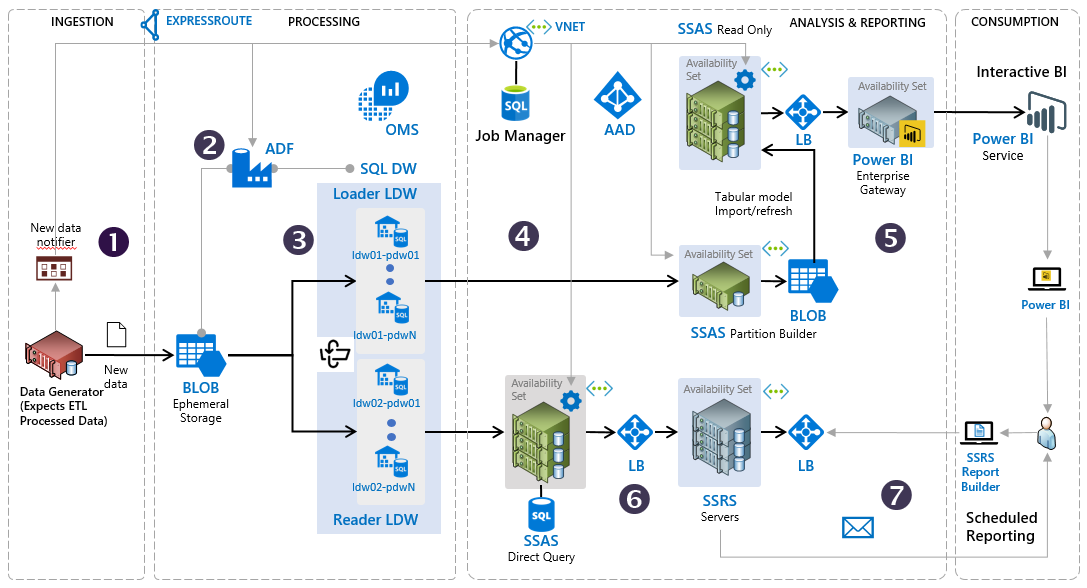
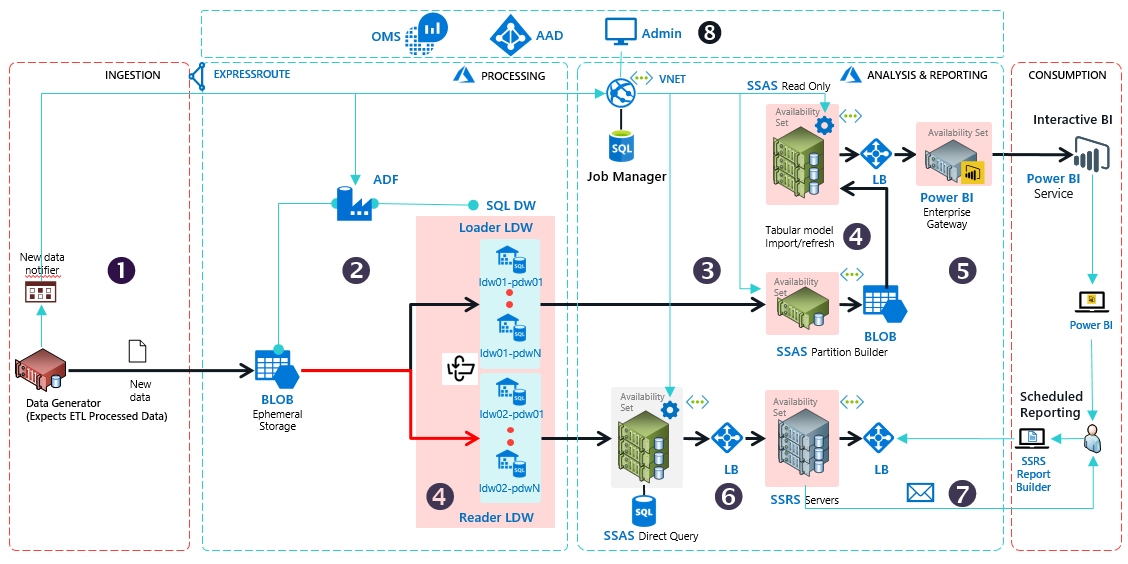
Users Guide with Table of Contents

diff --git a/README.md b/README.md
@@ -1,6 +1,12 @@
 
 # Technical Reference Implementation for Enterprise BI and Reporting
 
+## Summary
+
+This solution creates a reference implementation for an end to end BI and Reporting platform built using SQL Data Warehouse, SQL Server Analysis Services, SQL Server Reporting Services,  Power BI, and custom solutions for job managment and coordination. Customers who are planning to build such a system for their enterprise applications, or  onboarding their on-prem solution can use this TRI to get a jumpstart on the infrastructure implementation, and customize it for their needs. System Integrators can partner with us to use this reference implementation to accelrate their customer deployments.
+
+## Description
+
 Azure offers a rich data and analytics platform for customers and ISVs seeking to build scalable BI and reporting solutions. However, customers face pragmatic challenges in building the right infrastructure for enterprise-grade, production systems. They have to evaluate the various products for security, scale, performance and geo-availability requirements. They have to understand service features and their interoperability, and plan to address any perceived gaps with custom software. This takes time and effort, and many times, the end to end system architecture they design is sub-optimal. Consequently, the promise and expectations set during proof-of-concept (POC) stages do not translate to robust production systems in the expected time to market.
 
 This TRI addresses this customer pain by providing a reference implementation that is:
@@ -11,39 +17,39 @@ This TRI addresses this customer pain by providing a reference implementation th
 
 Once deployed, the TRI can be used as-is, or customized to fit the application needs using the technical documentation that is provided with the TRI. This enables the customer to build the solution that delivers the business goals based on a robust and functional infrastructure.
 
-# Audience
+## Audience
 Business decision makers and evaluators can review the content in the **Solution Overview LINK TBD** folder to understand the benefits of using the TRI. For more information on how to tailor the TRI for your needs, **connect with one of our partners LINK TBD**.
 
 It is recommended that the TRI is reviewed and deployed by a person who is familiar with operational concepts of data warehousing, business intelligence, and analytics. Knowledge of Azure is a plus, but not mandatory. The technical guides provide pointers to Azure documentation for all the resources employed in this TRI.
 
-# How to Deploy
-The TRI can be deployed from http://gallery.cortanaintelligence.com/azure-arch-enterprise-bi-and-reporting
-Before you deploy, follow the prerequisites. Then click on the Deploy button on the right pane, and provide the configuration parameters based on your requirements. The deployment will create an Azure resource group, with **these components TBD**
-
-# Architecture
+## Architecture 
 
 ![Architecture](./img/azure-arch-enterprise-bi-and-reporting.png)
 
-The TRI is designed with a key assumption that the data that is to be ingested into the system has been ETL-processed for reporting and analytics.
+
+### How the TRI works, in a Nutshell
 
 The TRI has 4 stages: Ingestion, Processing, Analysis and Reporting, and Consumption.
-1.	A data generator, provided in place of the customer's data source, queries the job manager for a staging [Azure Blob](https://docs.microsoft.com/en-us/azure/storage/) storage. The job manager returns the handle to an ephemeral BLOB, and the data generator pushes data files into this storage. [Configure the data ingestion](https://msdata.visualstudio.com/AlgorithmsAndDataScience/TRIEAD/_git/CIPatterns?_aConfiguringDataIngestion.md) module to load actual customer data.
-2.	When the job manager detects fresh data in the Azure Blob, it creates a dynamic [ADF](https://docs.microsoft.com/en-us/azure/data-factory/v1/data-factory-introduction) pipeline to load the data from the Blob into a "logical" _Loader_ SQL DW, using [Polybase](https://docs.microsoft.com/en-us/sql/relational-databases/polybase/get-started-with-polybase). The logical DW is a scale-out and redundancy architecture to allow for multiple physical DW. It also enables a Loader-Reader pair of Data Warehouses to provide the required enterprise-grade scale for concurrent read-write operations.
-operations. More details are provided in **[Configuring Logical Data Warehouse]**
-3.	After a preconfigured duration, the job manager flips the Loader DW to become the _Reader_ SQL DW, ready to serve queries for report generation. The current Reader flips to become the Loader, and the job manager starts data load on the Loader. This Loader-Reader pair 
-4.	Interactive BI is best served by cached analytical models in cubes that allow  fast drilldowns for summaries aggregated over various dimensions or pivots. This stage involves multiple steps to generate and serve these analytical models in a highly available manner.
-    - The Analytical model cache consists of a [SSAS partition builder](https://docs.microsoft.com/en-us/sql/analysis-services/multidimensional-models-olap-logical-cube-objects/partitions-analysis-services-multidimensional-data), and an [availability-set of SSAS read-only servers](https://docs.microsoft.com/en-us/sql/analysis-services/instances/high-availability-and-scalability-in-analysis-services).
-    - The job manager manages the mapping between the analytic (tabular) models stored in the cache and their source data tables in the data warehouse. As data arrives into tables in the _Loader_ SQL DW, the partition builder is instructed by the job manager to start rebuilding the tabular models by querying the relevant tables in data warehouse.
-    - When the loader flips to become the reader, this flip event triggers the partition builder to _commit_ the completed tabular models into Blob storage.
-    - When the job manager detects the availability of a tabular model, it coordinates a round robin refresh of the SSAS Read-Only nodes in the availability set, and the front end load balancer, as follows: (a) drain the existing connections to the SSAS-RO node (b) replace the tabular model in that node (c) open up the node for new interactive BI connections (d) move to the next one.
-5. Power BI dashboards connect to the tabular models in SSAS RO nodes via a Power BI gateway that you can set up in your subscription, as explained [here](https://msdata.visualstudio.com/AlgorithmsAndDataScience/TRIEAD/_git/CIPatterns?_a=preview&path=%2Fdoc%2FConfiguringPowerBI.md).
+
+TRI has 4 segments – Ingestion, Processing, Analysis & Reporting, and Consumption
+
+1.	A data generator, provided in place of the customer's data source, queries the job manager for a staging [Azure Blob](https://docs.microsoft.com/en-us/azure/storage/) storage. The job manager returns the handle to an ephemeral BLOB, and the data generator pushes data files into this storage. The TRI is designed with _a key assumption that the data that is to be ingested into the system has been ETL-processed_ for reporting and analytics.
+2.	When the job manager detects fresh data in the Azure Blob, it creates a dynamic [ADF](https://docs.microsoft.com/en-us/azure/data-factory/v1/data-factory-introduction) pipeline to load the data from the Blob into a "logical" _Loader_ SQL DW, using [Polybase](https://docs.microsoft.com/en-us/sql/relational-databases/polybase/get-started-with-polybase). The logical SQL DW is a design provided by the TRI for scalability and performance, to allow multiple physical [SQL Data Warehouse](https://docs.microsoft.com/en-us/azure/sql-data-warehouse/) replicas to handle large scale queries.
+3.	Interactive BI is best served by cached analytical models to enable fast drilldowns for summaries aggregated over various dimensions or pivots. A data lands in DW tables, a [SSAS partition builder](https://docs.microsoft.com/en-us/sql/analysis-services/multidimensional-models-olap-logical-cube-objects/partitions-analysis-services-multidimensional-data) starts refreshing the tabular models that are dependent on these tables.
+4.	After a preconfigured duration, the job manager flips the Loader DW to become the _Reader_ SQL DW, ready to serve queries for report generation. The current Reader flips to become the Loader, and the job manager starts data load on the Loader. This Loader-Reader pairing in another design provided by the TRI for scalability and performance of queries against the data warehouse. When this flip happens, the Partition Builder commits the tabular models into files in a Blob. This Blob is then loaded into 
+an [availability-set of SSAS read-only servers](https://docs.microsoft.com/en-us/sql/analysis-services/instances/high-availability-and-scalability-in-analysis-services).
+5. You can set up a Power BI gateway to the SSAS Read Only nodes, enabling Power BI dashboards to access the tabular models.
 6. For reporting, SSRS generates the report from data in the SQL DW via SSAS Direct Query. SSAS also offers row level security for the data fetched from SQL DW.
 7. You can schedule report generation with SSRS using the Report Builder client tool. The generated reports are stored in SSRS servers. You can enable email based delivery of reports to users.
+8. The end to end system can be managed via an online Admin console. The TRI is configured with [Azure Active Directory](https://docs.microsoft.com/en-us/azure/active-directory/), which you can enable RBAC (role based access control) for the users of your system, and [OMS](https://docs.microsoft.com/en-us/azure/operations-management-suite/operations-management-suite-overview), which enables you to monitor the individual components in the Azure resource group.
 
-# Technical Guides
+## User's Guide
 
-# How to Delete a Deployment
-The TRI creates the end to end system in a dedicated resource group provided by you. Login to http://portal.azure.com, and delete this resource group from your subscription.
+Please follow the step by step instructions in the [User's Guide](./UsersGuide/UsersGuide-ToC.md) to deploy and operationalize the TRI.
+
+## Technical Guides
+
+The design and operational details of the main data components of the TRI are provided in the [Technical Guide](./TechnicalGuide/TechnicalGuide-ToC.md). 
 
 # Disclaimer
 

diff --git a/User Guides/1-Prerequisite Steps Before Deployment.md b/User Guides/1-Prerequisite Steps Before Deployment.md
@@ -1,13 +1,12 @@
-# Summary
-This page summarizes prerequisites for Technical Reference Implementation for Enterprise BI and Reporting solution. 
+# Prequisites for deploying Technical Reference Implementation for Enterprise BI and Reporting
 
 # VNET
 
-Most of the resources provisioned will be placed in a pre-existing Azure VNET. Therefore, we require an Azure VNET resource and a domain controller to be deployed in the subscription where the solution will be deployed. Customers who already have a functioning Azure VNET and domain controller can skip this section. For customers new to Azure, the guide below will show how to easily deploy prerequisites in their subscription.
+Most of the resources provisioned will be placed in a pre-existing Azure VNET in the subscription that you will be specifying for the TRI to be deployed. Customers who already have a functioning Azure VNET and domain controller can skip this section. If not, an Azure VNET resource and a domain controller must be deployed in the subscription, following the steps provided in this guide.
 
-## Provisioning Azure VNet resource
+## Provisioning Azure VNet resource and creating root and client certificates
 
-First, we will create new Azure VNET and VPN Gateway resources. Navigate to the <source root>\scripts directory and run the command below. Note that it might take up to 45 minutes to complete.
+First, create a new Azure VNET and VPN Gateway resource. Navigate to the <source root>\scripts directory and run the command below, after the parameter values to ones that apply to your environment. Note that it might take up to 45 minutes to complete.
 
 ```PowerShell
 Login-AzureRmAccount
@@ -15,9 +14,13 @@ Login-AzureRmAccount
 .\DeployVPN.ps1 -SubscriptionName "My Subscription" -ResourceGroupName "ContosoVNetGroup" -Location "eastus" -VNetName "ContosoVNet" -VNetGatewayName "ContosoGateway" -AddressPrefix "10.254.0.0/16" -GatewaySubnetPrefix "10.254.1.0/24" -OnpremiseVPNClientSubnetPrefix "192.168.200.0/24" -RootCertificateName "ContosoRootCertificate" -ChildCertificateName "ContosoChildCertificate"
 ```
 
-In addition to provisioning Azure VNET and VPN Gateway resources, the script above will also create a self-signed root certificate and a client certificate for the VPN gateway. The root certificate is used for generating and signing client certificates on the client side, and for validating those client certificates on the VPN gateway side.
+The above script will provision the Azure VNET and VPN Gateway resources. In addition, it will create a self-signed root certificate (identified by ```ContosoRootCertificate``` in the above example), and a client certificate for the VPN gateway (identified by ```ContosoChildCertificate```). The root certificate is used for generating and signing client certificates on the client side, and for validating those client certificates on the VPN gateway side.
 
-To enable people in your organization to connect to the newly provisioned VNET via the VPN gateway, you will need to export the two certificates. You can use the commands below to generate the PFX files. The two files can then be shared and installed on the machines of users who need VPN access.
+## Export the certificates
+
+To enable users in your organization to connect to the newly provisioned VNET via the VPN gateway, you will need to export the two certificates to generate PFX files that they can import to their devices.
+
+From the same PowerShell console that you used above, run the commands shown below to generate the PFX files in the same directory (```ContosoRootCertificate.pfx``` and ```ContosoChildCertificate.pfx``` in the example)
 
 ```PowerShell
 $rootCert = Get-ChildItem -Path cert:\CurrentUser\My | ?{ $_.Subject -eq "CN=ContosoRootCertificate" }
@@ -29,10 +32,13 @@ $securePassword = ConvertTo-SecureString -String "MyPassword" -Force –AsPlainT
 Export-PfxCertificate -Cert $rootCert -FilePath "ContosoRootCertificate.pfx" -Password $securePassword -Verbose
 Export-PfxCertificate -Cert $childCert -FilePath "ContosoChildCertificate.pfx" -Password $securePassword -Verbose
 ```
+Share these two files with the users who need VPN access, instructing them to install these files in their client machines (using Certmgr or other tools).
 
 ## Provisioning the Domain Controller
 
-The next step is to deploy a Domain Controller VM and set up a new domain. All VMs provisioned during the solution's deployment will join the domain managed by the domain controller. To do that, run the PowerShell script below.
+The next step is to deploy a Domain Controller VM and set up a new domain. All VMs provisioned during the solution's deployment will join the domain managed by the domain controller.
+
+To do that, run the PowerShell script below.
 
 ```PowerShell
 $securePassword = ConvertTo-SecureString -String "MyPassword" -Force –AsPlainText

diff --git a/User Guides/UsersGuide-TOC.md b/User Guides/UsersGuide-TOC.md
@@ -1,0 +1,40 @@
+# User Guide for  for Enterprise BI and Reporting
+
+The guide is organized along the sequence of steps that you need to follow to deploy and operationalize the TRI. You can return to specific sections once you have successfully deployed the TRI end to end (i.e. after you have completed all the steps until Step 15 below). If the deployment is blocked at any stage, consult the Get Help and Support section for mitigation and workarounds.
+
+- Step 1 - It is assumed that you have an Azure subscription. If not, [obtain a subscription](https://azure.microsoft.com/en-us/free/?v=17.39a). Then implement these [prerequisite steps before deployment](./1-Prerequisite%20Steps%20Before%20Deployment.md)
+
+- Step 2 - Next, [set up the deployment](./2-Set%20Up%20Deployment.md), starting from either the GitHub repository, or the Cortana Gallery.
+
+- Step 3 - Azure is a dynamic environment, and the TRI has several products in its architecture. Please monitor the deployment progress. If the deployment fails or stalls at a given step, you can [troubleshoot the deployment](./3-Troubleshoot%20the%20Deployment.md).
+
+- Step 4 - Once the deployment completes with success, you can [manage the deployed infrastructure](./4-Manage%20the%20Deployed%20Infrastructure.md) from an Admin console that is provided as part of the TRI.
+
+- Step 5 - You may also want to [monitor the deployed components](./5-Monitor%20the%20Deployed%20Components.md) individually - such as the SQL DW, SSAS, and SSRS servers, the VMs, load balancers, and other components, as part of monitoring the end to end system.
+
+- Step 6 - Once the infrastructure has been deployed in the subscription, the next step is to [prepare the infrastructure to ingest your data](./6-Prepare%20the%20infrastructure%20for%20your%20Data.md). This includes optionally removing any demo data and models that are currently in SQL DW and the SSAS servers.
+
+- Step 7 - The default data generator that is shipped with the TRI needs is programmed to load demo data files. So you need to modify this script to [configure the data ingestion](./7-Configure%20Data%20Ingestion.md) into the SQL Data Warehouse.
+
+- Step 8 - Once SQL DW is configured for data ingestion, the next step is to [configure the SQL Server Analysis Services](./8-Configure%20SQL%20Server%20Analysis%20Services.md) for generation of analytical tabular models for interactive BI, and the models enabling direct query acces for SSRS report generation.
+
+- Step 9 - Next, [configure SQL Server Reporting Services](./9-Configure%20SQL%20Server%20Reporting%20Services.md) to generate and serve reports.
+
+- Step 10 - To enable interactive BI against the SSAS cached models, [configure Power BI](./10-Configure%20Power%20BI.md) gateway to connect to the SSAS read-only servers through the front end load balancers, and the Power BI clients for dashboard access.
+
+- Step 11 - Now that all the data engines are set up, your next step is to do an [one-time load of historical data into the SQL DW](./11-Load%20historica%20data%20into%20the%20warehouse.md). Skip this step if you have no historical data, and are starting your BI project from scratch.
+
+- Step 12 - Follow this with an [one time load of all the historical tabular models](./12-Load%20historical%20tabular%20models.md).
+
+- Step 13 - [Create and/or import dashboards and reports](./13-Create%20dashboards%20and%20reports.md) to confirm that your users are able to view the tabular model data through their PowerBI clients, and are able to receive reports.
+
+- Step 14 - Given the reassurance that the end to end pipeline is working for data at rest, you can now confidently [set up incremental load](./14-Set%20up%20incremental%20loads.md) of data from your on-premise or cloud based data sources.
+
+- Step 15 - Incremental data ingestion process is enabled by dynamic ADF pipelines that you may want to [monitor and troubleshoot](./15-Monitor%20and%20Troubleshoot%20Data%20Pipelines.md) as necessary.
+
+- Step 16 - If you face any issues with the deployment, consult the [frequently asked questions](16-Frequently%20Asked%20Questions.md).
+
+- Step 17 - [Get help and support](./16-Get%20Help%20and%20Support) for any of the above steps from the documentation and additional resources provided with the TRI.
+
+- Step 18 - Finally, for any number of reasons, if you'd like to remove the deployed implementation from your subscription, you can follow these steps for [deleting the deployment](18-Deleting%20a%20deployment).
+

diff --git a/User Guides/2-Set up Deployment.md b/User Guides/2-Set up Deployment.md
@@ -1,0 +1,7 @@
+# Setting up the Deployment
+
+Before you start the deployment, confirm that you have an Azure subscription with sufficient quota, and have implemented the prerequisites.
+
+The deployment starts by clicking on the DEPLOY button on the main landing page - which is README.md in the GitHub, or the solutions page in the Cortana Gallery. Once you click on DEPLOY, the deployment platform takes you through a series of questions to set up the TRI.
+
+This section explains each parameter in detail. 
